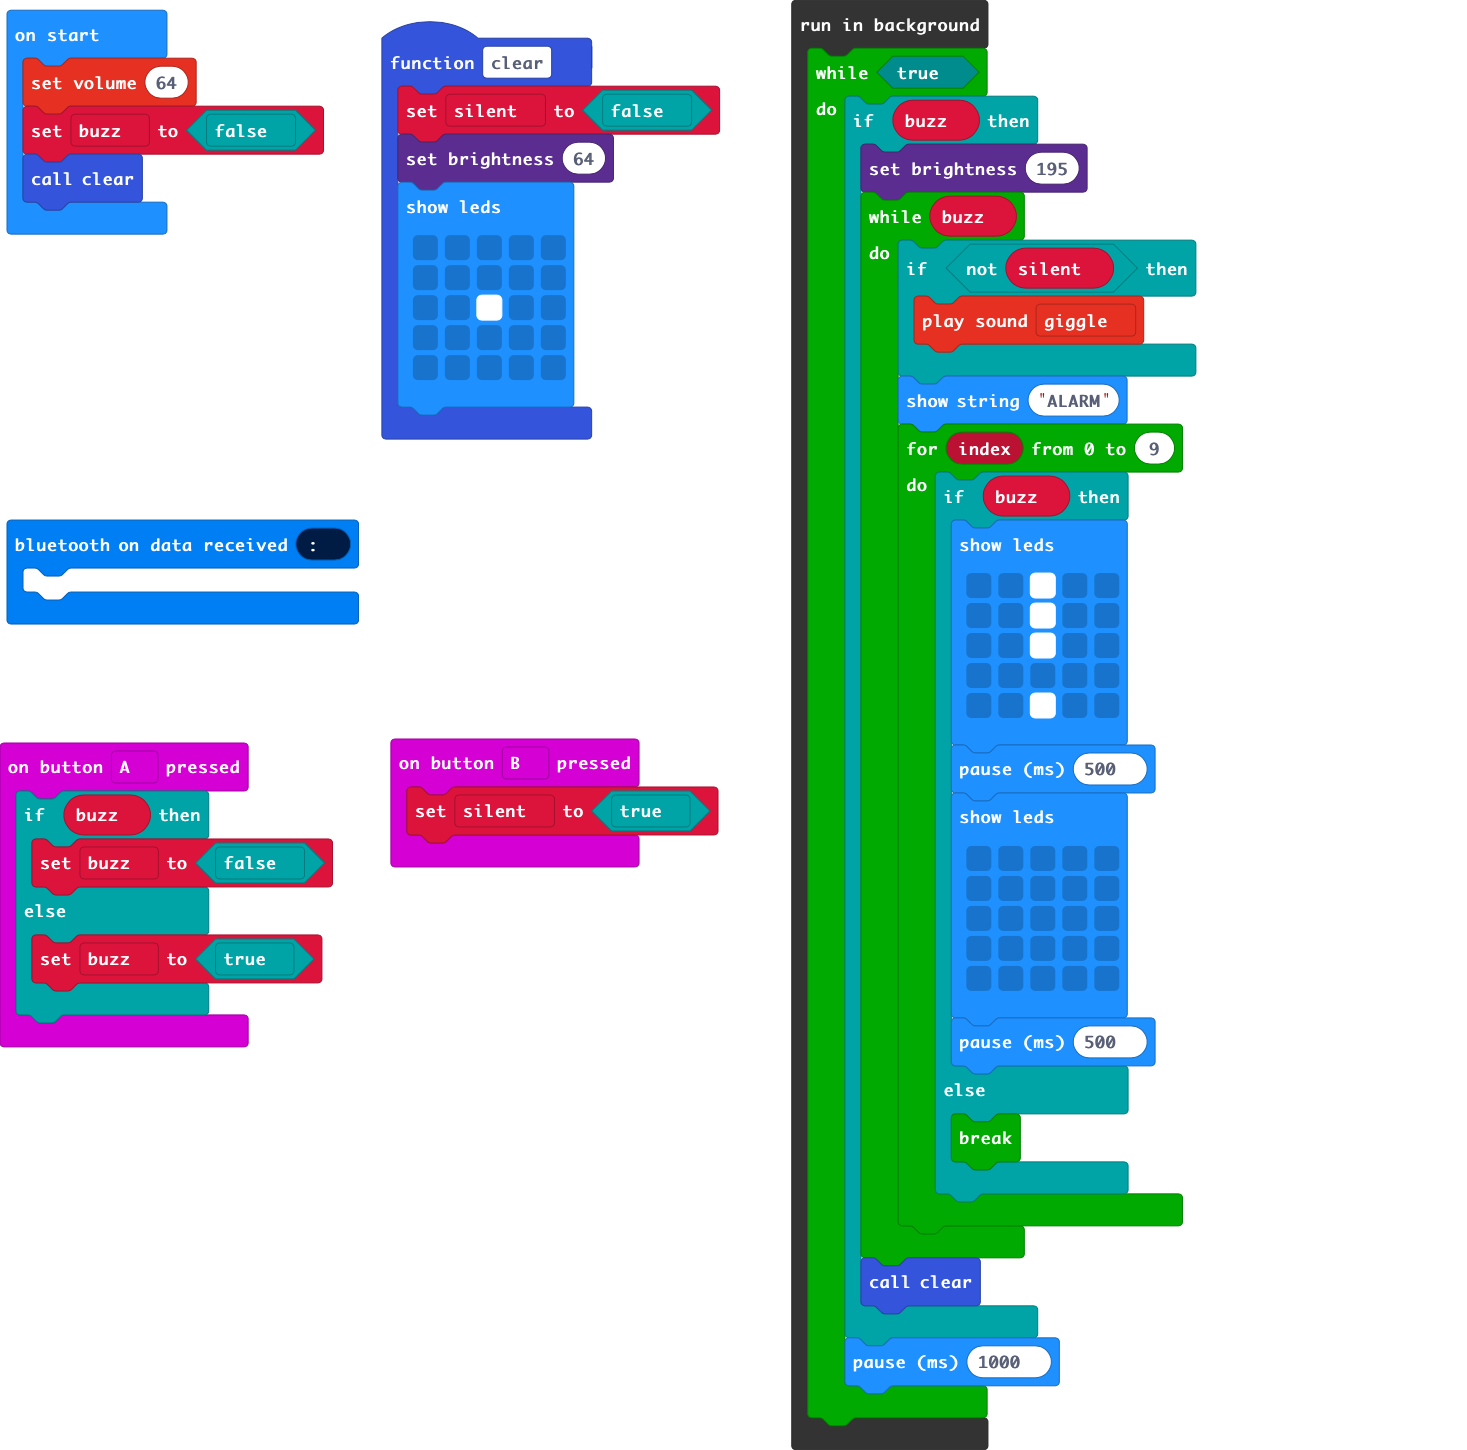
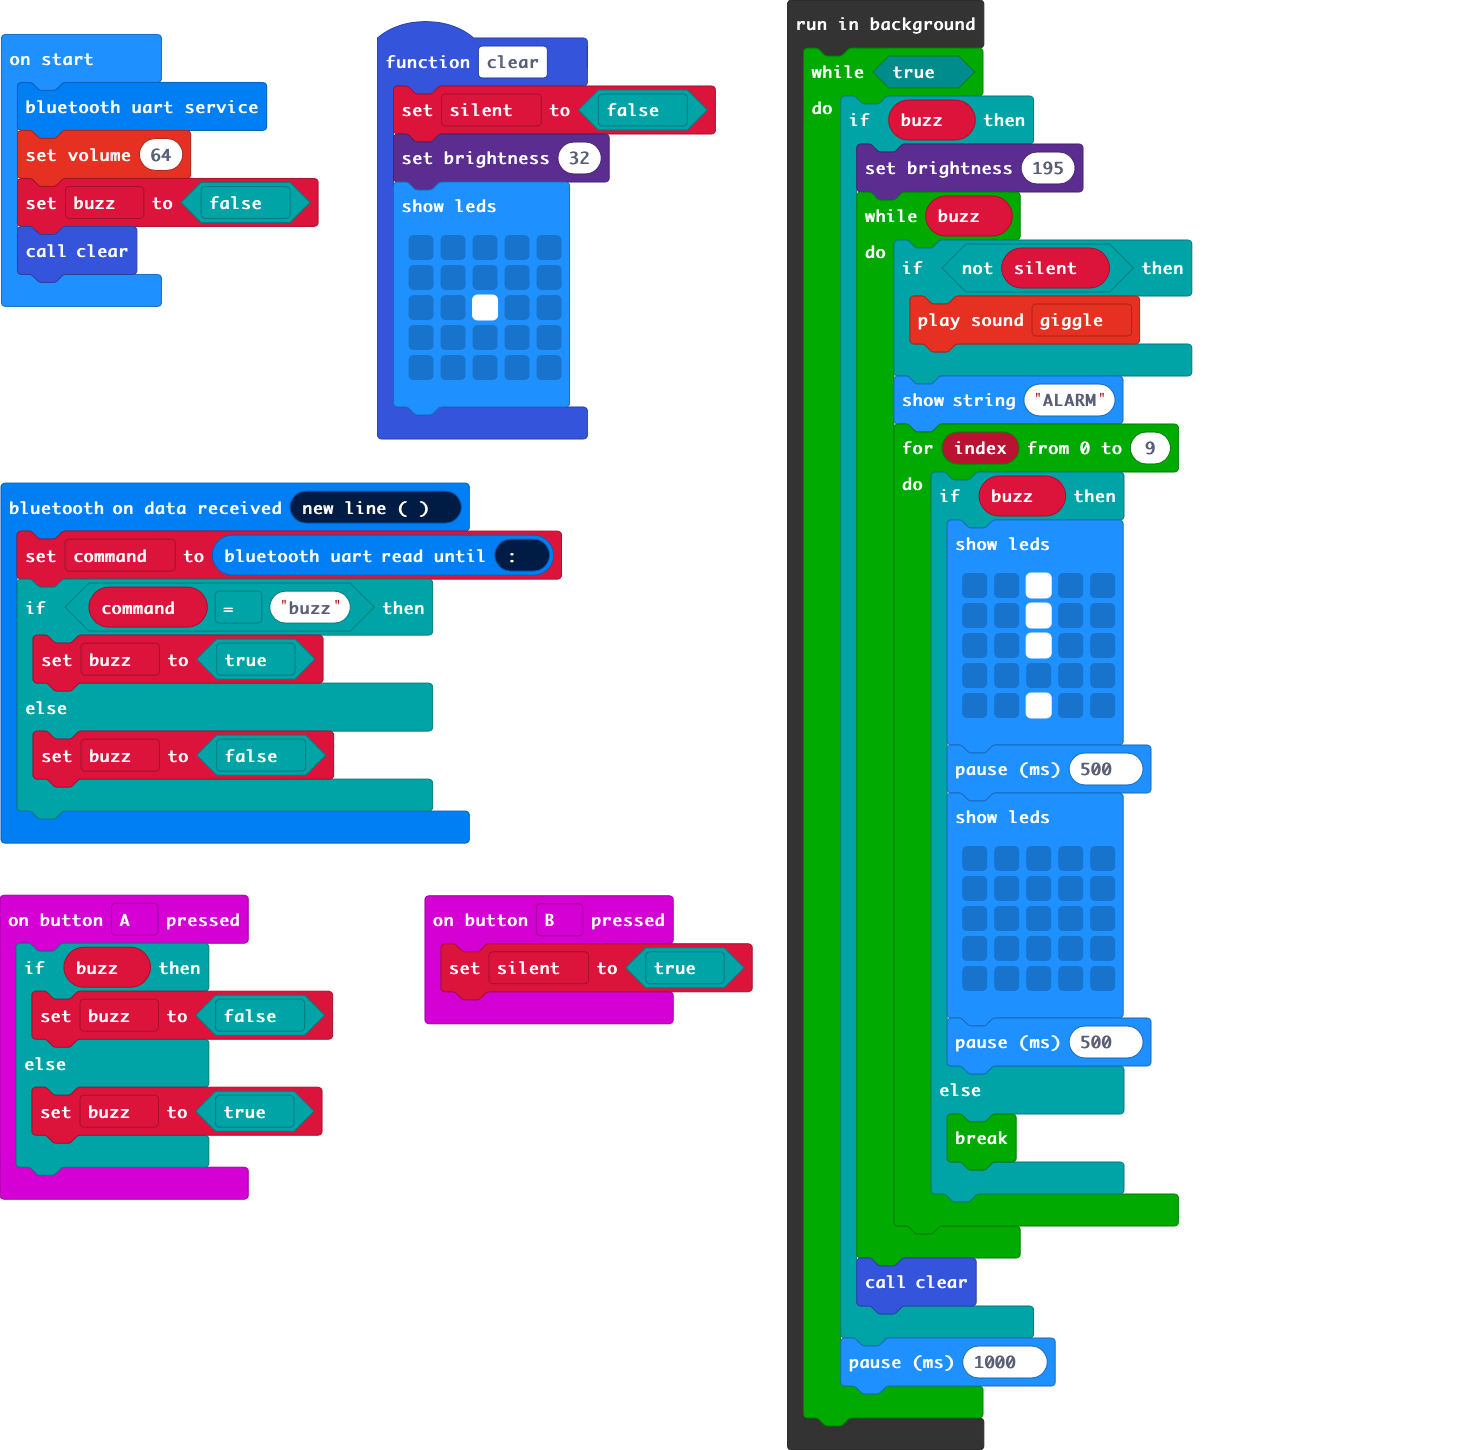
First experiment with UART

diff --git a/main.ts b/main.ts
@@ -1,6 +1,3 @@
-bluetooth.onUartDataReceived(serial.delimiters(Delimiters.Colon), function () {
-	
-})
 input.onButtonPressed(Button.A, function () {
     if (buzz) {
         buzz = false
@@ -10,7 +7,7 @@ input.onButtonPressed(Button.A, function () {
 })
 function clear () {
     silent = false
-    led.setBrightness(64)
+    led.setBrightness(32)
     basic.showLeds(`
         . . . . .
         . . . . .
@@ -19,11 +16,21 @@ function clear () {
         . . . . .
         `)
 }
+bluetooth.onUartDataReceived(serial.delimiters(Delimiters.NewLine), function () {
+    command = bluetooth.uartReadUntil(serial.delimiters(Delimiters.Colon))
+    if (command == "buzz") {
+        buzz = true
+    } else {
+        buzz = false
+    }
+})
 input.onButtonPressed(Button.B, function () {
     silent = true
 })
+let command = ""
 let silent = false
 let buzz = false
+bluetooth.startUartService()
 music.setVolume(64)
 buzz = false
 clear()
